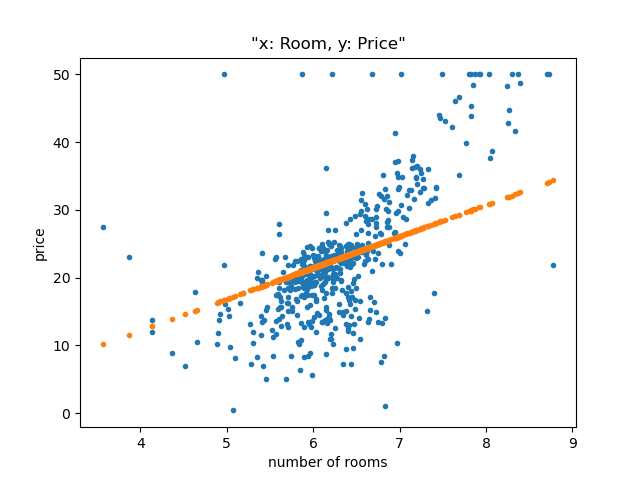
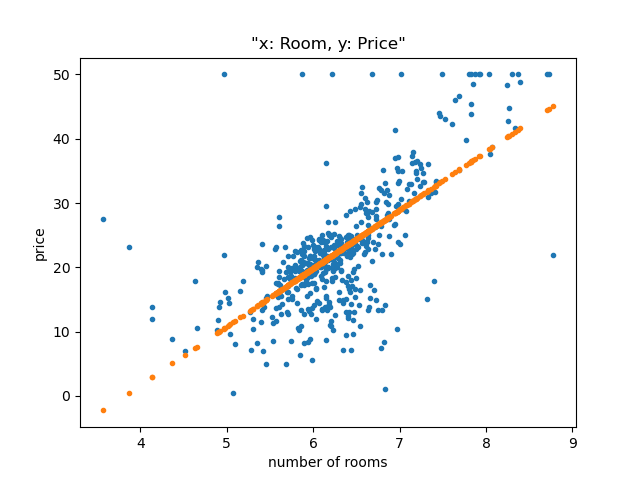
edit epoch number

diff --git a/LR_multi_new_x2.py b/LR_multi_new_x2.py
@@ -1,0 +1,148 @@
+import numpy as np
+import matplotlib.pyplot as plt
+
+print("Step2: Development Multi Linear Regression Algorithm")
+# input_array will be 2-d array, target_array will be 1-d array(2입력1출력 다중선형회귀)
+#paramaters = weight, bias will be matrix
+#input_array1=RM, input_array2=CRIM, target_array=MEDV, predict_array=예측한 출력값
+
+def linear_regression_2D(input_array, target_array, epoch):
+    weight, bias = np.zeros(shape=(2,1)), np.zeros(shape=(506,1))
+    #for record history(그래프 그리려고)
+    loss_list = []
+    weight_list, bias_list = [[], []], []
+    grad_weight_list, grad_bias_list = [[], []], []
+    lr = 1e-6
+    print(f"initial : weight1, weight2, bias : {weight[0,0]:.4f}, {weight[1,0]:.4f}, {bias[0,0]:.4f}")
+    
+    for i in range(0, epoch):
+        #predict variable
+        predict_array = predict(input_array, weight, bias)
+        #difference function(편차 함수)
+        diff_array = predict_array - target_array
+        #calculate gradients(경사 계산)
+        gradient_weight1 = np.sum(2*input_array[:,0]*diff_array) / len(diff_array) 
+        gradient_weight2 = np.sum(2*input_array[:,1]*diff_array) / len(diff_array)
+        gradient_bias = np.sum(2*diff_array) / len(diff_array)
+        #adjust parameters(2 weights, bias)(파라미터 수정)
+        weight[0,0] -= (lr * gradient_weight1)
+        weight[1,0] -= (lr * gradient_weight2)
+        bias[:,0] -= (lr * gradient_bias)
+        #loss variable
+        loss = lossfunction(diff_array)
+
+        #for record history(그래프 그리려고)
+        weight_list[0].append(weight[0,0])
+        weight_list[1].append(weight[1,0])
+        bias_list.append(bias[0,0])
+
+        grad_weight_list[0].append(gradient_weight1)
+        grad_weight_list[1].append(gradient_weight2)
+        grad_bias_list.append(gradient_bias)
+
+        loss_list.append(loss)
+    weight_arr = np.array(weight_list)
+    bias_arr = np.array(bias_list)
+    
+    grad_weight_arr = np.array(grad_weight_list)
+    grad_bias_arr = np.array(grad_bias_list)
+
+    loss_arr = np.array(loss_list)
+    
+    print(f"final : weight1, weight2, bias, loss: {weight_arr[0, -1]:.4f}, {weight_arr[1, -1]:.4f}, {bias_arr[-1]:.4f}, {loss_arr[-1]:.4f}")
+    
+    #accuracy(R^2 결정계수)
+    #target_mean=target_array.mean()
+    #acc=1-((target_array-predict_array)**2).sum()/((target_array-target_mean)**2).sum()
+    #print("accuracy :", round(acc,4))
+    
+    return weight_arr, bias_arr, loss_arr, grad_weight_arr, grad_bias_arr
+    
+def get_data(): 
+    number_of_rooms_list, price_list, lower_population_list = [], [], []
+    with open("BostonData1.txt", "r") as f: #read text file as 'read mode'
+                for lines in f: 
+                    a = lines[0:5]
+                    b = lines[5:10]
+                    number_of_rooms_list.append(float(a.replace(" ", ""))) #부동소수점 자료형
+                    price_list.append(float(b.replace(" ", ""))) #still 'list'
+    with open("BostonData3.txt", "r") as f:
+                for lines in f:
+                    d = lines[0:4]
+                    lower_population_list.append(float(d))
+    #change to array / add row
+    input_array = np.c_[np.array(number_of_rooms_list), np.array(lower_population_list)] 
+    target_array = np.array(price_list)
+    return(input_array, target_array)
+
+#predict function(예측함수)
+def predict(input_array, weight, bias):
+    predict_array = (input_array)@weight+bias
+    return predict_array
+
+#loss function(손실함수)
+def lossfunction(diff_array):
+    loss = np.sum((diff_array)**2)/len(diff_array)
+    return loss
+
+#__name__ : interpreter 글로벌 변수 
+if __name__ == "__main__":
+    #인터프리터에서 직접 실행했을 경우에만 if문을 실행해라(import 말고)
+    input_arr, target_arr = get_data()
+    epoch = 100
+    weight_arr, bias_arr, loss_arr, grad_weight_arr, grad_bias_arr = linear_regression_2D(input_arr, target_arr, epoch)
+    #result graph
+    plt.figure()
+    plt.subplot(2, 1, 1)
+    plt.plot(input_arr[:,0], target_arr, ".", label="target")
+    plt.plot(input_arr[:,0], (input_arr[:,0]*weight_arr[0, -1]), ".", label="predict")
+    plt.legend()
+    plt.title("x: Room, y: Price")
+    
+    plt.subplot(2, 1, 2)
+    plt.plot(input_arr[:,1], target_arr, ".", label="target")
+    plt.plot(input_arr[:,1], (input_arr[:,1]*weight_arr[1, -1]), ".", label="predict")
+    plt.legend()
+    plt.title("x: Lower Population, y: Price")
+
+    plt.tight_layout()
+    plt.savefig("Assist_LR_multi_scatter1.png")
+    
+    #total graph
+    plt.figure()
+    plt.plot(input_arr[:,1], target_arr, ".", label="target")
+    plt.plot(input_arr[:,1], (input_arr[:,1]@weight_arr[:,:]), ".", label="predict")
+    plt.legend()
+    plt.title("x: Lower Population, y: Price")
+    plt.savefig("Assist_LR_multi_scaater_total.png")
+
+    #loss graph
+    plt.figure()
+    plt.plot(loss_arr)
+    plt.xlabel('epoch')
+    plt.ylabel('loss')
+    plt.title('learning graph(loss)')
+    plt.savefig("Assist_LR_multi_lossgraph1.png")
+
+    #weight, bias graph
+    plt.figure()
+    plt.plot(weight_arr[0, :], ".", label="weight1")
+    plt.plot(weight_arr[1, :], ".", label="weight2")
+    plt.plot(bias_arr[:], ".", label="bias")
+    plt.xlabel('epoch')
+    plt.ylabel('param')
+    plt.title('learning graph(param)')
+    plt.legend()
+    plt.savefig("Assist_LR_multi_paramgraph1.png")
+
+    #weight, bias's gradient graph
+    plt.figure()
+    plt.plot(grad_weight_arr[0, :], ".", label="grad_weight1")
+    plt.plot(grad_weight_arr[1, :], ".", label="grad_weight2")
+    plt.plot(grad_bias_arr[:], ".", label="grad_bias")
+    plt.xlabel('epoch')
+    plt.ylabel('grad_param')
+    plt.title('learning graph(grad_param)')
+    plt.legend()
+    plt.savefig("Assist_LR_multi_grad_paramgraph1.png")
+

diff --git a/LR_single_original.py b/LR_single_original.py
@@ -9,7 +9,7 @@ print("Step1: Development Single Linear Regression Algorithm")
 def linear_regression_1D(input_array, target_array, epoch):
     weight, bias = 1,1
     loss_list = []
-    lr = 1e-4
+    lr = 1e-3
     print(f"initial : weight, bias : {weight}, {bias}")
     
     for i in range(0, epoch):
@@ -60,7 +60,7 @@ def lossfunction(diff_array):
 #__name__ : interpreter 글로벌 변수 
 if __name__ == "__main__": #인터프리터에서 직접 실행했을 경우에만 if문을 실행해라(import 말고)
     number_of_rooms, prices = get_data()
-    epoch = 100000
+    epoch = 1000000
     weight, bias, loss_arr = linear_regression_1D(number_of_rooms, prices, epoch)
     #draw result graph
     plt.plot(number_of_rooms, prices, ".", label="target")
